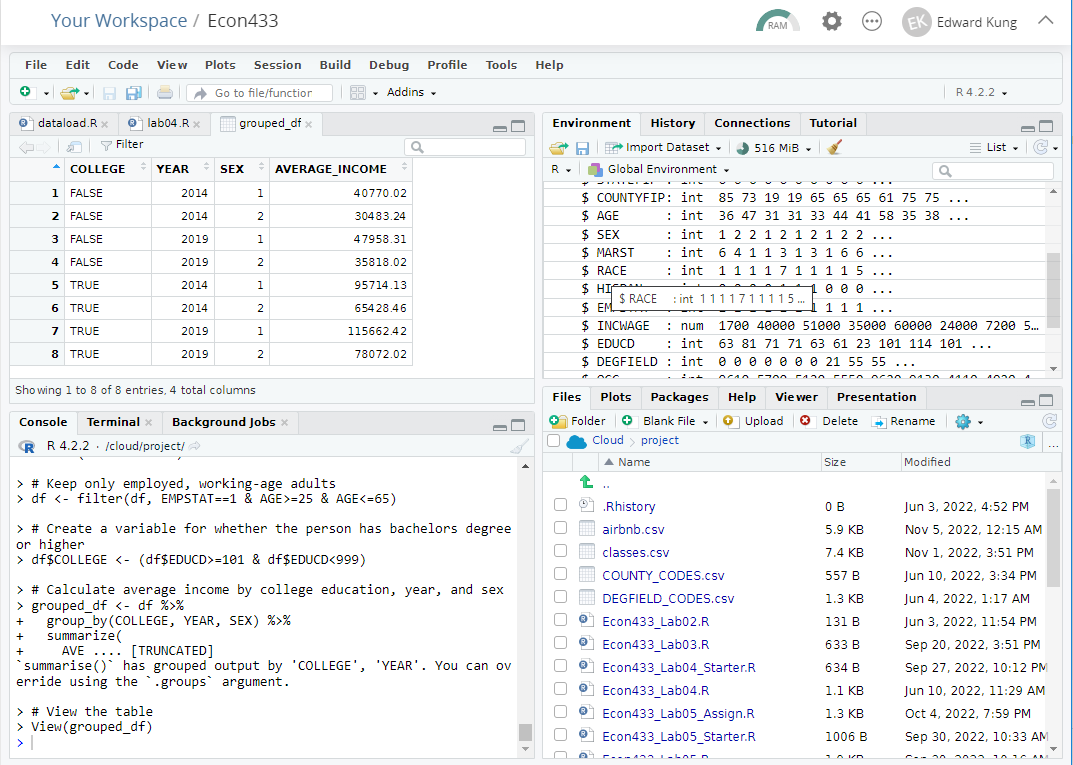
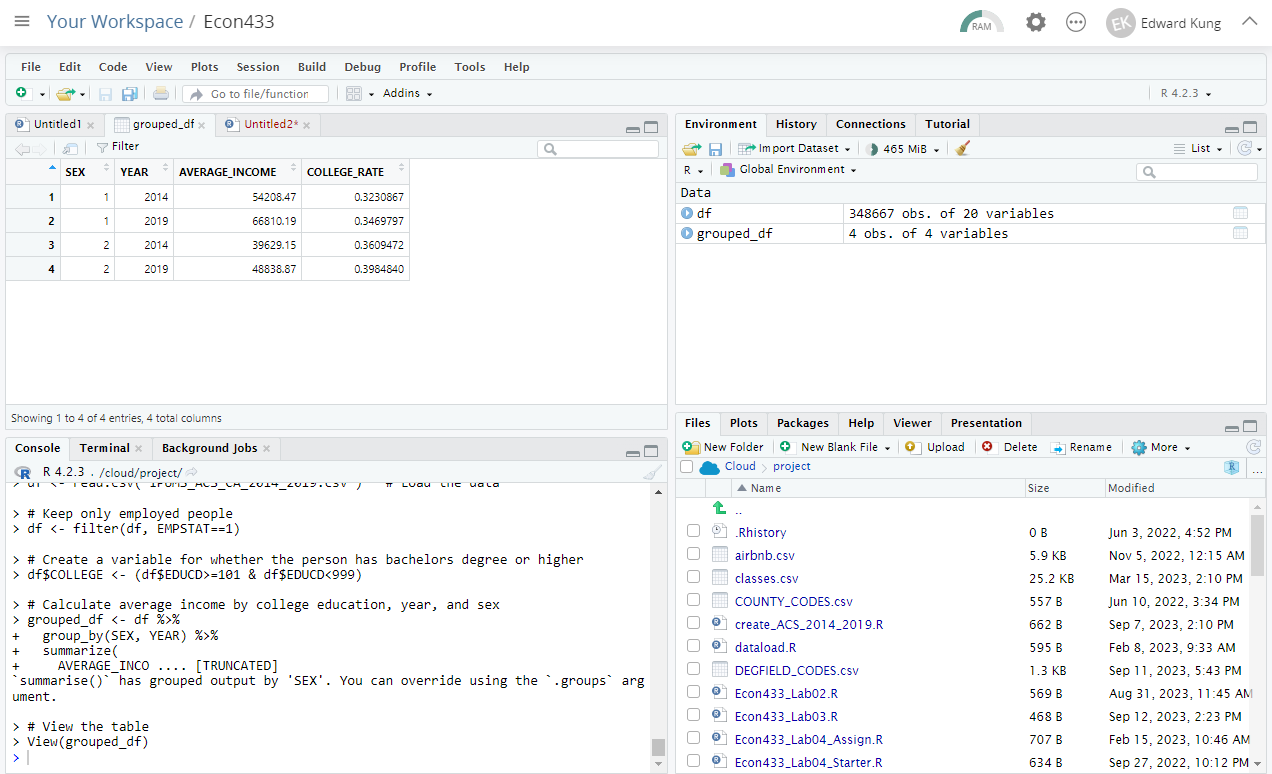
Updated Lab 04

Changed region(s): [[0.0, 0.0, 1.0, 1.0], [0.4613, 0.0601, 0.5228, 0.0902]]

diff --git a/labs/lab04/README.md b/labs/lab04/README.md
@@ -55,32 +55,33 @@ Now try loading your newly created data file!  Type `rm(list=ls())` to clear the
 
 A common task in data analysis is to compute summary statistics for different groups within your data. 
 
-For example, we may be interested in calculating the average income for college and non-college educated workers. We may further want to break that down by male and female, or by year, or by geographic location. There are many different ways to cut the data, each of which can yield different insights. 
+For example, we may be interested in calculating the average income and rate of college education by gender. We may further want to break that down by year or by geographic location. There are many different ways to cut the data, each of which can yield different insights. 
 
-The following script shows an example for how we calculate average income of employed workers by college education, year, and sex, using our ACS data from California in 2014 and 2019.
+The following script shows an example for how we calculate average income and college education rate by sex and year, for employed workers, using our ACS data from California in 2014 and 2019.
 
     rm(list=ls())    # Clear the workspace
     library(dplyr)   # Load dplyr
     
     df <- read.csv("IPUMS_ACS_CA_2014_2019.csv")   # Load the data
     
-    # Keep only employed, working-age adults
-    df <- filter(df, EMPSTAT==1 & AGE>=25 & AGE<=65)
+    # Keep only employed people
+    df <- filter(df, EMPSTAT==1)
     
     # Create a variable for whether the person has bachelors degree or higher
     df$COLLEGE <- (df$EDUCD>=101 & df$EDUCD<999)
     
     # Calculate average income by college education, year, and sex
     grouped_df <- df %>% 
-      group_by(COLLEGE, YEAR, SEX) %>%
+      group_by(SEX, YEAR) %>%
       summarize(
-        AVERAGE_INCOME = weighted.mean(INCWAGE, PERWT)
+        AVERAGE_INCOME = weighted.mean(INCWAGE, PERWT),
+		COLLEGE_RATE = weighted.mean(COLLEGE, PERWT)
       )
     
     # View the table
     View(grouped_df)
 
-You should get output that looks like the following image. What do you notice about the relative income of the college vs. non-college educated? What do you notice about the differences between men and women? How about between the years 2014 and 2019?
+You should get output that looks like the following image. What do you notice about the relative income of men vs. women? How about between the years 2014 and 2019?
 
 ![screenshot](screenshot1.png)
 
@@ -90,19 +91,18 @@ Now let's walk through the script to see what each line of code does.
 
 2. `df <- read.csv("IPUMS_ACS_CA_2014_2019.csv")` loads the data we created into a dataframe named `df`.
 
-3. `df <- filter(df, EMPSTAT==1 & AGE>=25 & AGE<=65)` filters the data on employed individuals (`EMPSTAT==1`) and working-age individuals (`AGE>=25` and `AGE<=65`).
+3. `df <- filter(df, EMPSTAT==1)` filters the data to keep only employed individuals (`EMPSTAT==1`).
 
-4. `df$COLLEGE <- (df$EDUCD>=101 & df$EDUCD<999)` creates a new variable called `COLLEGE` which is `TRUE` if the value of `EDUCD` is between 101 and 999, and `FALSE` otherwise. The IPUMS codes for the `EDUCD` variable is shown [here](https://usa.ipums.org/usa-action/variables/EDUC#codes_section) (under "detailed codes"). 
-
-    From these codes, we see that a value of 101 indicates that the individual has achieved a bachelor's degree, and that higher values indicate higher levels of education, until the value of 999 which indicates that the data is missing. So `COLLEGE` is simply an indicator for whether the individual has attained a bachelor's degree or higher.
+4. `df$COLLEGE <- (df$EDUCD>=101 & df$EDUCD<999)` creates a new variable called `COLLEGE` which is `TRUE` if the value of `EDUCD` is between 101 and 999, and `FALSE` otherwise. The IPUMS codes for the `EDUCD` variable is shown [here](https://usa.ipums.org/usa-action/variables/EDUC#codes_section) (under "detailed codes"). Essentially, this creates a variable which is `TRUE` if the person has a bachelor's degree or higher.
 
 5. The next command is a single command spread out over multiple lines:
 
-        grouped_df <- df %>%
-          group_by(COLLEGE, YEAR, SEX) %>% 
-          summarize(
-            AVERAGE_INCOME = weighted.mean(INCWAGE, PERWT)
-          )
+		grouped_df <- df %>% 
+		  group_by(SEX, YEAR) %>%
+		  summarize(
+			AVERAGE_INCOME = weighted.mean(INCWAGE, PERWT),
+			COLLEGE_RATE = weighted.mean(COLLEGE, PERWT)
+		  )
           
     There is a lot to talk about in this command, so we will go over it slowly.
     
@@ -118,7 +118,7 @@ Now let's walk through the script to see what each line of code does.
     
     **Grouping**
     
-    Now let's talk about `group_by`. `group_by` is a command that takes a dataframe as input, and then creates groups based on the specified variables. So `df %>% group_by(COLLEGE, YEAR, SEX)` tells R to take `df` and define groups based on the combinations of values for `COLLEGE`, `YEAR`, and `SEX`. 
+    Now let's talk about `group_by`. `group_by` is a command that takes a dataframe as input, and then creates groups based on the specified variables. So `df %>% group_by(SEX, YEAR)` tells R to take `df` and define groups based on the combinations of values for `SEX` and `YEAR`. 
 	
 	By itself, grouping doesn't do much. All it does is tell R to define these groups. We have to combine the `group_by` command with other commands like `summarize` in order to do anything meaningful.
     
@@ -134,7 +134,7 @@ Now let's walk through the script to see what each line of code does.
             ...
           )
         
-    `X1`, `X2`, ..., are the variables to group by. `STAT1`, `STAT2`, ..., are the names of the summary variables you want to create (you can call them anything). 
+    `X1`, `X2`, ..., are the variables to group by. `STAT1`, `STAT2`, ..., are the names of the statistics you want to calculate for each group (you can call them anything). 
 	
 	For example, to calculate the weighted mean of `INCWAGE` and the median of `AGE` by `SEX` and `YEAR` in our data, we could have used:
     
@@ -149,25 +149,22 @@ Now let's walk through the script to see what each line of code does.
     
     Going back to our script, our script has:
     
-        grouped_df <- df %>%
-          group_by(COLLEGE, YEAR, SEX) %>% 
-          summarize(
-            AVERAGE_INCOME = weighted.mean(INCWAGE, PERWT)
-          )
+		grouped_df <- df %>% 
+		  group_by(SEX, YEAR) %>%
+		  summarize(
+			AVERAGE_INCOME = weighted.mean(INCWAGE, PERWT),
+			COLLEGE_RATE = weighted.mean(COLLEGE, PERWT)
+		  )
           
-    So this section of code takes `df`, groups it by `COLLEGE`, `YEAR`, and `SEX`, then calculates the weighted mean of `INCWAGE` (using `PERWT` as weights), and stores it in a variable called `AVERAGE_INCOME`. 
+    So this section of code takes `df`, groups it by `SEX` and `YEAR`, then calculates the weighted mean of `INCWAGE` and `COLLEGE` (using `PERWT` as weights).  The weighted mean of `INCWAGE` is stored in a variable called `AVERAGE_INCOME` and the weighted mean of `COLLEGE` is stored in a variable called `COLLEGE_RATE`. 
 	
-	The result of this entire operation is itself a new dataframe with one row for each combination of `COLLEGE`, `YEAR`, and `SEX`, and we named this new dataframe `grouped_df`.
+	The result of this entire operation is itself a new dataframe with one row for each combination of `SEX` and `YEAR`, and we named this new dataframe `grouped_df`.
     
     **Weighted Statistics**
     
     The last thing to comment on is `weighted.mean`. The ACS data is a **stratified sample**, meaning not every individual in the data was surveyed with equal probability. The ACS **oversamples** some groups and **undersamples** others. The variable `PERWT` defines how many actual people an observation is meant to represent. So `PERWT=260` on row 2 implies that the person in row 2 is representative of 260 people in real life. You can read more about `PERWT` [here](https://usa.ipums.org/usa-action/variables/PERWT#description_section).
     
-    Because the ACS is a stratified sample, summary statistics need to be properly weighted. The standard formula for calculating an average is:
-    
-    $$\text{Mean} = \frac{1}{N}\sum_{i=1}^{N} X_i $$
-    
-    The formula for calculating a weighted average is:
+    Because the ACS is a stratified sample, summary statistics need to be properly weighted. The formula for calculating a weighted average is:
     
     $$\text{Weighted Mean} = \frac{\sum W_i X_i}{\sum W_i}$$
     
@@ -180,10 +177,15 @@ Now let's walk through the script to see what each line of code does.
           summarize(
             TOTAL_POPULATION = sum(PERWT)
           )
-
+		  
+	**Rates as Weighted Means of Boolean Variables**
+	
+	Finally, let me comment on the line `COLLEGE_RATE = weighted.mean(COLLEGE, PERWT)`. `COLLEGE` was a boolean variable that was `TRUE` if the person had a bachelor's or higher, and `FALSE` otherwise. If we take the mean of a boolean variable, we get a rate. That is, the percentage of people who have a value of `TRUE` for that variable. So to calculate the rate of people with a college education, we took the mean of `COLLEGE` (and weighted, of course, by `PERWT` because we have a stratified sample).
+	
     **Other Statistics**
     
     Besides the weighted mean, you can also calculate other statistics like the minimum, maximum, median, standard deviation, etc. The cheat sheet linked to below shows some of the statistics that can be calculated.    
+
     
 ### dplyr Cheat Sheet 
 
@@ -207,26 +209,22 @@ Here is the skeleton of a script to get you started:
 	# YOUR CODE HERE
     
     # Keep only people in the labor force
+	# HINT: Filter on the EMPSTAT variable
 	# YOUR CODE HERE
 
     # Create a variable for whether the person is unemployed
+	# HINT: Create a boolean variable that is TRUE if the person is unemployed and FALSE otherwise
 	# YOUR CODE HERE
     
     # Create a variable for whether the person has a bachelors degree or higher
+	# HINT: You already saw how to do this above 
 	# YOUR CODE HERE
     
-    # Calculate total population, unemployment rate, and college rate by 
-    # county and year
+    # Calculate total population, unemployment rate, and college rate by county and year 
+	# YOUR CODE HERE 
     
     # View the table
     View(grouped_df)
-
-Hints:
-- You should load the data file `IPUMS_ACS_CA_2014_2019.csv` that you created earlier in the lab.
-- You'll first need to filter the data to contain only people in the labor force. Use a filter for `EMPSTAT`. You can read more about `EMPSTAT` on the [IPUMS codebook](https://usa.ipums.org/usa-action/variables/EMPSTAT#codes_section).
-- Total population can be calculated by summing `PERWT`.
-- To calculate the percent of individuals with a BA or higher, create a variable that is `TRUE` if the person has a BA or higher and `FALSE` otherwise. Then, calculate the weighted mean of this variable. (The mean of a boolean variable is equal to the percent of people with `TRUE`.)
-- To calculate the percent of individuals who are unemployed, you can do the same as above.
 
 Once you are done, show me your script and your output to receive your grade, then take the lab quiz.
 
